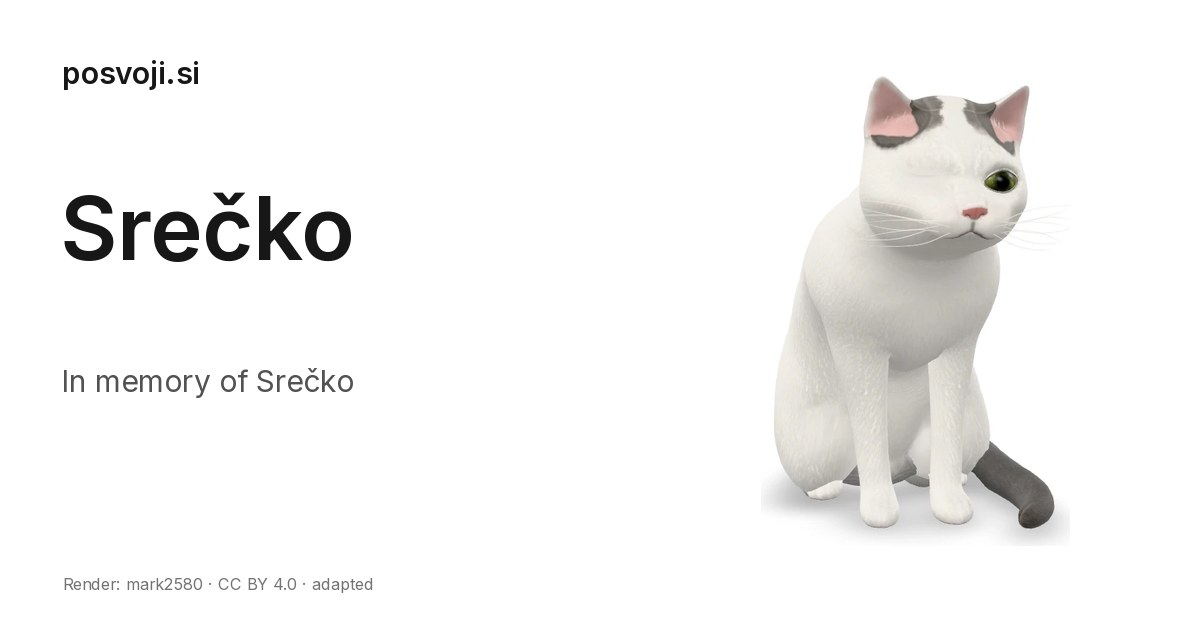
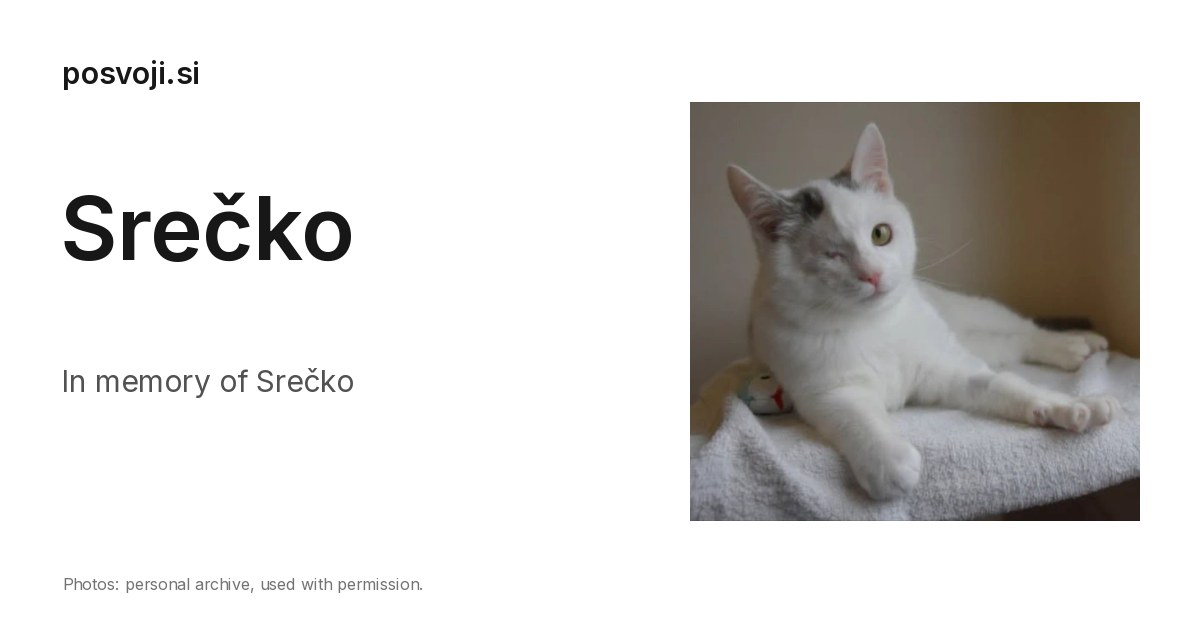
feat(web): add Srecko photos and confirmed homecoming

Changed region(s): [[0.555, 0.1206, 0.9558, 0.8746], [0.0617, 0.9048, 0.3392, 0.9349]]

diff --git a/apps/web/lib/srecko.ts b/apps/web/lib/srecko.ts
@@ -6,13 +6,23 @@ export type SreckoPhoto = {
   /** Local public/ path: permission-cleared, EXIF-free, longest edge <= 1600px. */
   src: string; width: number; height: number; alt: Record<Locale, string>;
 };
-/** Owner-confirmed facts only. Add prepared photographs and dates here. */
+/** Confirmed facts only; provenance is recorded in docs/SRECKO.md. */
 export const SRECKO = {
   name: "Srečko", species: "cat", sex: "male", felv: "positive", eyes: "one",
-  timeline: [{ key: "listed" }, { key: "adopted" }, { key: "died" }] as SreckoEvent[],
-  photos: [] as SreckoPhoto[],
+  shelter: { name: "Mačja hiša", from: { sl: "iz Mačje hiše", en: "from Mačja hiša" } },
+  timeline: [{ key: "listed" }, { key: "adopted", date: "2023-03-17" }, { key: "died" }] as SreckoEvent[],
+  photos: [
+    { src: "/images/srecko/srecko-portret.webp", width: 612, height: 570,
+      alt: { sl: "Srečko, bel maček s sivimi lisami, leži na brisači.", en: "Srečko, a white cat with grey patches, lying on a towel." } },
+    { src: "/images/srecko/srecko-televizija.webp", width: 305, height: 305,
+      alt: { sl: "Srečko sedi pred televizijo in gleda tigra na zaslonu.", en: "Srečko sitting in front of the television, watching a tiger on the screen." } },
+    { src: "/images/srecko/srecko-pociva.webp", width: 305, height: 305,
+      alt: { sl: "Srečko počiva v mehkem ležišču na postelji.", en: "Srečko resting in a soft cat bed on the bed." } },
+    { src: "/images/srecko/srecko-igra.webp", width: 306, height: 305,
+      alt: { sl: "Srečko na postelji gleda visečo igračo v obliki ribe.", en: "Srečko on the bed, looking up at a dangling fish toy." } },
+  ] as SreckoPhoto[],
   /** A genuine memory supplied by his owner, in both languages. */
-  memory: undefined as Record<Locale, string> | undefined,
+  memory: { sl: "Bil je zelo igriv fant.", en: "He was a very playful boy." } as Record<Locale, string> | undefined,
 } as const;
 export const SRECKO_PATHS = { sl: "/o-nas/srecko", en: "/en/about/srecko" } as const;
 export const SRECKO_POSTER_PATHS = { sl: "/o-nas/srecko/plakat", en: "/en/about/srecko/poster" } as const;
@@ -26,7 +36,7 @@ export const SRECKO_RENDER = {
 export const SRECKO_TEXT = {
   sl: {
     memorial: "V spomin na Srečka",
-    intro: "Srečko je prišel iz zavetišča in našel dom. Posvoji.si je posvečen njegovemu spominu.",
+    intro: `Srečko je prišel ${SRECKO.shelter.from.sl} in našel dom. Posvoji.si je posvečen njegovemu spominu.`,
     purpose: "V njegov spomin pomagamo drugim živalim iz zavetišč, da jih ljudje, ki iščejo družabnika, lažje najdejo.",
     dedication: "Ta stran je v spomin na Srečka.",
     dedicationBefore: "Ta stran je v spomin na ", dedicationName: "Srečka",
@@ -34,17 +44,18 @@ export const SRECKO_TEXT = {
     eye: { title: "Eno oko", body: "Desnega očesa ni imel. Rana se je zacelila." },
     felv: { title: "FeLV pozitiven", body: "Test na virus mačje levkemije je bil pozitiven." },
     dates: "Pomembni trenutki", home: "Doma",
-    events: { listed: "V zavetišču", adopted: "Posvojen", died: "Umrl" },
-    posterStory: "Iz zavetišča je prišel v svoj dom.",
+    events: { listed: "V zavetišču", adopted: "Prišel domov", died: "Umrl" },
+    posterStory: `Srečko je ${SRECKO.shelter.from.sl} prišel v svoj dom.`,
     scan: "Spoznaj njegovo zgodbo in mačke, ki še čakajo na dom.",
     credit: "Upodobitev: Cat [Murdered: Soul Suspect], mark2580, CC BY 4.0, prilagojeno.",
     shareCredit: "Upodobitev: mark2580 · CC BY 4.0 · prilagojeno",
+    photoCredit: "Fotografije: osebni arhiv, z dovoljenjem.",
     aboutShare: "Živali, ki iščejo dom",
     aboutShareBody: "Odprt in brezplačen seznam živali iz slovenskih zavetišč.",
   },
   en: {
     memorial: "In memory of Srečko",
-    intro: "Srečko came from a shelter and found a home. Posvoji.si is dedicated to his memory.",
+    intro: `Srečko came ${SRECKO.shelter.from.en} and found a home. Posvoji.si is dedicated to his memory.`,
     purpose: "In his memory, we help people looking for a companion discover other animals in shelters.",
     dedication: "This site is in memory of Srečko.",
     dedicationBefore: "This site is in memory of ", dedicationName: "Srečko",
@@ -52,11 +63,12 @@ export const SRECKO_TEXT = {
     eye: { title: "One eye", body: "He had no right eye. The wound had healed over." },
     felv: { title: "FeLV positive", body: "He tested positive for feline leukemia virus." },
     dates: "Milestones", home: "At home",
-    events: { listed: "In the shelter", adopted: "Adopted", died: "Died" },
-    posterStory: "He came from a shelter and found a home.",
+    events: { listed: "In the shelter", adopted: "Came home", died: "Died" },
+    posterStory: `Srečko came ${SRECKO.shelter.from.en} and found a home.`,
     scan: "Discover his story and the cats still waiting for a home.",
     credit: "Render: Cat [Murdered: Soul Suspect] by mark2580, CC BY 4.0, adapted.",
     shareCredit: "Render: mark2580 · CC BY 4.0 · adapted",
+    photoCredit: "Photos: personal archive, used with permission.",
     aboutShare: "Animals waiting for a home",
     aboutShareBody: "An open, free index of animals in Slovenian shelters.",
   },

diff --git a/apps/web/components/srecko-page.test.tsx b/apps/web/components/srecko-page.test.tsx
@@ -6,7 +6,8 @@ import { SRECKO, SRECKO_TEXT, SRECKO_PATHS, SRECKO_POSTER_PATHS, sreckoDateLabel
 Object.defineProperty(window, "matchMedia", { configurable: true, value: vi.fn(() => ({
   matches: false, addEventListener: vi.fn(), removeEventListener: vi.fn(),
 })) });
-afterEach(() => { cleanup(); SRECKO.photos.length = 0; });
+const recordedPhotos = [...SRECKO.photos];
+afterEach(() => { cleanup(); SRECKO.photos.splice(0, SRECKO.photos.length, ...recordedPhotos); });
 describe("Srečko's memorial", () => {
   it.each(["sl", "en"] as const)("explains the memorial before the portrait and offers waiting cats (%s)", locale => {
     const { container } = render(<SreckoPage locale={locale} />);
@@ -19,14 +20,26 @@ describe("Srečko's memorial", () => {
     expect(container.querySelector("main")?.lastElementChild?.textContent).toBe(SRECKO_TEXT[locale].dedication);
     expect([...container.querySelectorAll("a")].map(a => a.getAttribute("href"))).toContain(SRECKO_PATHS[locale === "sl" ? "en" : "sl"]);
     expect(container.querySelector("main details")?.hasAttribute("open")).toBe(false);
-    expect(screen.queryByRole("heading", { name: SRECKO_TEXT[locale].dates })).toBeNull();
+    expect(screen.getByRole("heading", { name: SRECKO_TEXT[locale].dates })).toBeTruthy();
+    expect(container.querySelectorAll("main time")).toHaveLength(1);
+    expect(container.querySelector("main time")?.getAttribute("datetime")).toBe("2023-03-17");
+    expect(screen.getByText(SRECKO.memory![locale])).toBeTruthy();
+    expect(header.textContent).toContain(locale === "sl" ? "Mačje hiše" : "Mačja hiša");
     expect(container.textContent).not.toMatch(/ranked|uvrščen|filter skrije/);
   });
   it("uses the prepared photo and removes the model credit", () => {
-    SRECKO.photos.push({ src: "/test-portrait.webp", width: 800, height: 600, alt: { sl: "Srečko doma", en: "Srečko at home" } });
+    render(<SreckoPage locale="en" />);
+    expect(screen.getAllByRole("img")).toHaveLength(4);
+    expect(decodeURIComponent(screen.getAllByRole("img")[0].getAttribute("src") ?? "")).toContain(sreckoPortrait().src);
+    expect(screen.getByText(SRECKO_TEXT.en.photoCredit)).toBeTruthy();
+    expect(screen.queryByText("Model credit")).toBeNull();
+  });
+  it("keeps the credited illustration when no photographs are available", () => {
+    SRECKO.photos.length = 0;
     render(<SreckoPage locale="en" />);
     expect(decodeURIComponent(screen.getByRole("img").getAttribute("src") ?? "")).toContain(sreckoPortrait().src);
-    expect(screen.queryByText("Model credit")).toBeNull();
+    expect(screen.getByText("Model credit")).toBeTruthy();
+    expect(screen.queryByText(SRECKO_TEXT.en.photoCredit)).toBeNull();
   });
   it("assigns separate localized cards to About and the memorial", () => {
     expect(new Set(["sl", "en"].flatMap(locale => ["about", "memorial"].map(surface =>
@@ -45,9 +58,12 @@ describe("recorded dates", () => {
     expect(sreckoMilestones("sl", [{ key: "listed", date }])).toEqual([]);
   });
   it("shows only dated milestones", () => {
-    expect(sreckoMilestones("sl")).toEqual([]);
+    expect(sreckoMilestones("sl", [{ key: "listed" }, { key: "died" }])).toEqual([]);
+    expect(sreckoMilestones("sl")).toEqual([
+      { key: "adopted", label: "Prišel domov", date: "17. 3. 2023", iso: "2023-03-17" },
+    ]);
     expect(sreckoMilestones("en", [{ key: "listed" }, { key: "adopted", date: "2019" }])).toEqual([
-      { key: "adopted", label: "Adopted", date: "2019", iso: "2019" },
+      { key: "adopted", label: "Came home", date: "2019", iso: "2019" },
     ]);
   });
   it("displays a range rather than manufacturing a duration from partial dates", () => {

diff --git a/apps/web/components/poster/srecko-poster.test.tsx b/apps/web/components/poster/srecko-poster.test.tsx
@@ -5,7 +5,8 @@ import { SITE_URL } from "@/lib/site";
 import { SRECKO, SRECKO_PATHS, SRECKO_TEXT, sreckoPortrait } from "@/lib/srecko";
 import { qrSymbol } from "./qr-code";
 import { SreckoPoster } from "./srecko-poster";
-afterEach(() => { cleanup(); SRECKO.photos.length = 0; });
+const recordedPhotos = [...SRECKO.photos];
+afterEach(() => { cleanup(); SRECKO.photos.splice(0, SRECKO.photos.length, ...recordedPhotos); });
 describe("memorial poster", () => {
   it.each(["sl", "en"] as const)("identifies a memorial without an adoption status or medical tiles (%s)", locale => {
     const { container } = render(<SreckoPoster locale={locale} />);
@@ -13,18 +14,19 @@ describe("memorial poster", () => {
     expect(screen.getByRole("heading", { level: 1 }).textContent).toBe(SRECKO.name);
     expect(container.querySelector(".poster-status")).toBeNull();
     expect(container.querySelector(".poster-tile")).toBeNull();
-    expect(container.querySelector(".poster-timeline")).toBeNull();
+    expect(container.querySelector(".poster-timeline")?.textContent).toBe(locale === "sl" ? "Prišel domov: 17. 3. 2023" : "Came home: 17 March 2023");
+    expect(container.querySelector(".poster-memorial-story")?.textContent).toContain(SRECKO.memory![locale]);
     expect(screen.getByText(SRECKO_TEXT[locale].scan)).toBeTruthy();
     expect(screen.getByText(SRECKO_TEXT[locale].dedication)).toBeTruthy();
     expect(container.querySelector('svg[role="img"] path')?.getAttribute("d")).toBe(qrSymbol(`${SITE_URL}${SRECKO_PATHS[locale]}`).path);
     expect(container.querySelector(".poster-url")?.textContent).toBe(`posvoji.si${SRECKO_PATHS[locale]}`);
-    expect(container.querySelector(".poster-credit")?.textContent).toContain("CC BY 4.0");
+    expect(container.querySelector(".poster-credit")?.textContent).toBe(SRECKO_TEXT[locale].photoCredit);
     expect(container.querySelector("img")?.getAttribute("src")).toBe(sreckoPortrait().src);
   });
-  it("uses the same prepared portrait as the page and omits render credit", () => {
-    SRECKO.photos.push({ src: "/test-portrait.webp", width: 800, height: 600, alt: { sl: "Srečko doma", en: "Srečko at home" } });
+  it("keeps the same credited render fallback as the page", () => {
+    SRECKO.photos.length = 0;
     const { container } = render(<SreckoPoster locale="sl" />);
     expect(container.querySelector("img")?.getAttribute("src")).toBe(sreckoPortrait().src);
-    expect(container.querySelector(".poster-credit")).toBeNull();
+    expect(container.querySelector(".poster-credit")?.textContent).toContain("CC BY 4.0");
   });
 });

diff --git a/apps/web/components/srecko-page.tsx b/apps/web/components/srecko-page.tsx
@@ -36,15 +36,18 @@ export function SreckoPage({ locale }: { locale: Locale }) {
             </Button>
           </div>
           {SRECKO.photos.length > 0 ? (
-            <ul className="grid gap-3 sm:grid-cols-2">
-              {SRECKO.photos.map((photo, index) => (
-                <li key={photo.src} className={index === 0 ? "sm:col-span-2" : ""}>
-                  <Image src={photo.src} alt={photo.alt[locale]} width={photo.width} height={photo.height} loading={index === 0 ? "eager" : "lazy"}
-                    sizes={index === 0 ? "(min-width: 800px) 768px, 100vw" : "(min-width: 640px) 384px, 100vw"}
-                    className="h-auto w-full rounded-ui" />
-                </li>
-              ))}
-            </ul>
+            <figure className="mx-auto w-full space-y-3" style={{ maxWidth: portrait.width }}>
+              <ul className="grid gap-3 sm:grid-cols-3">
+                {SRECKO.photos.map((photo, index) => (
+                  <li key={photo.src} className={index === 0 ? "sm:col-span-3" : ""}>
+                    <Image src={photo.src} alt={photo.alt[locale]} width={photo.width} height={photo.height} loading={index === 0 ? "eager" : "lazy"}
+                      sizes={index === 0 ? "(min-width: 800px) 768px, 100vw" : "(min-width: 640px) 248px, 100vw"}
+                      className="h-auto w-full rounded-ui" />
+                  </li>
+                ))}
+              </ul>
+              <figcaption className="text-xs text-muted-foreground">{text.photoCredit}</figcaption>
+            </figure>
           ) : (
             <div className="relative mx-auto h-64 w-full max-w-sm sm:h-80">
               <Image src={portrait.src} alt={portrait.alt[locale]} fill loading="eager" sizes="(min-width: 640px) 384px, 100vw" className="object-contain" />

diff --git a/apps/web/components/poster/srecko-poster.tsx b/apps/web/components/poster/srecko-poster.tsx
@@ -22,7 +22,7 @@ export function SreckoPoster({ locale }: { locale: Locale }) {
         {/* eslint-disable-next-line @next/next/no-img-element */}
         <img src={portrait.src} alt={portrait.alt[locale]} className="poster-photo-image" />
       </div>
-      <p className="poster-memorial-story">{text.posterStory}</p>
+      <p className="poster-memorial-story">{text.posterStory}{SRECKO.memory && <> {SRECKO.memory[locale]}</>}</p>
       {moments.length > 0 && <p className="poster-timeline">{moments.map(event => `${event.label}: ${event.date}`).join(" · ")}</p>}
       <div className="poster-band">
         <div className="poster-memorial">
@@ -36,7 +36,7 @@ export function SreckoPoster({ locale }: { locale: Locale }) {
             <Fragment key={index}>{index > 0 && <>/<wbr /></>}{part}</Fragment>)}</p>
         </div>
       </div>
-      {isRender && <p className="poster-credit">{text.credit}</p>}
+      <p className="poster-credit">{isRender ? text.credit : text.photoCredit}</p>
     </div>
   );
 }

diff --git a/docs/SRECKO.md b/docs/SRECKO.md
@@ -21,7 +21,32 @@ Edit `apps/web/lib/srecko.ts`. Use only facts confirmed by his owner.
 - `SRECKO_TEXT` holds the shared memorial, poster and preview wording.
 
 Do not infer personality, medical history, dates, or historical site rankings.
-The current illustration remains until an approved photograph is available.
+The illustration is the fallback if the approved photograph list is empty.
+
+## Recorded sources
+
+- The owner supplied Mačja hiša as his shelter and the memory "zelo igrivi
+  fant" in this task on 2026-09-08. The short memory is translated into English.
+- User-supplied screenshots of Mačja hiša posts dated 2023-03-16 and
+  2023-03-18 establish that he came home on 2023-03-17: the first announces
+  departure the following day; the second confirms it happened the previous
+  afternoon. The milestone says "Came home" to describe that evidence.
+  Shelter arrival and death dates remain unknown.
+- The screenshots were read as supplied; no social platform was fetched or
+  scraped, and the screenshots are not stored in this repository.
+- On 2026-09-08, the owner confirmed in this task that the supplied photographs
+  are theirs and explicitly permitted their use on Posvoji.si. This is the
+  permission for the four files under `apps/web/public/images/srecko/`,
+  separate from Mačja hiša's website-catalogue permission. Credit is
+  "Photos: personal archive, used with permission"; no public reuse licence
+  is implied.
+- Five attachments repeated one portrait; it is included once. The other
+  three photographs show Srečko watching television, resting, and looking at
+  a toy. The collage photograph containing an identifiable person is excluded.
+  Prepared images contain only the original cat photographs, without social
+  interface, comments, EXIF, XMP or IPTC. They retain the supplied resolution
+  (612×570 portrait; approximately 305×305 home pictures), without upscaling
+  or generated detail. Original-resolution files can replace these later.
 
 ## Share cards
 
